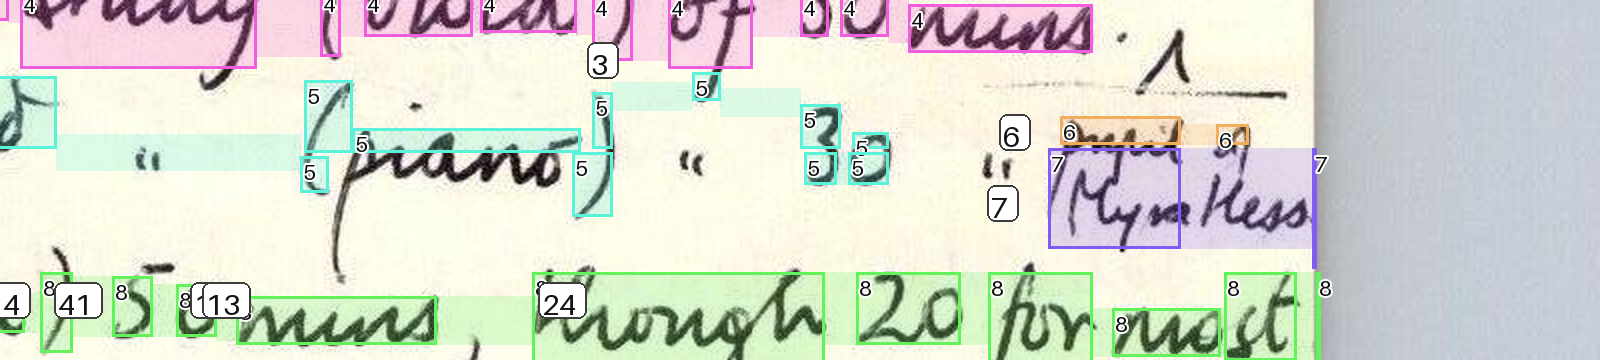
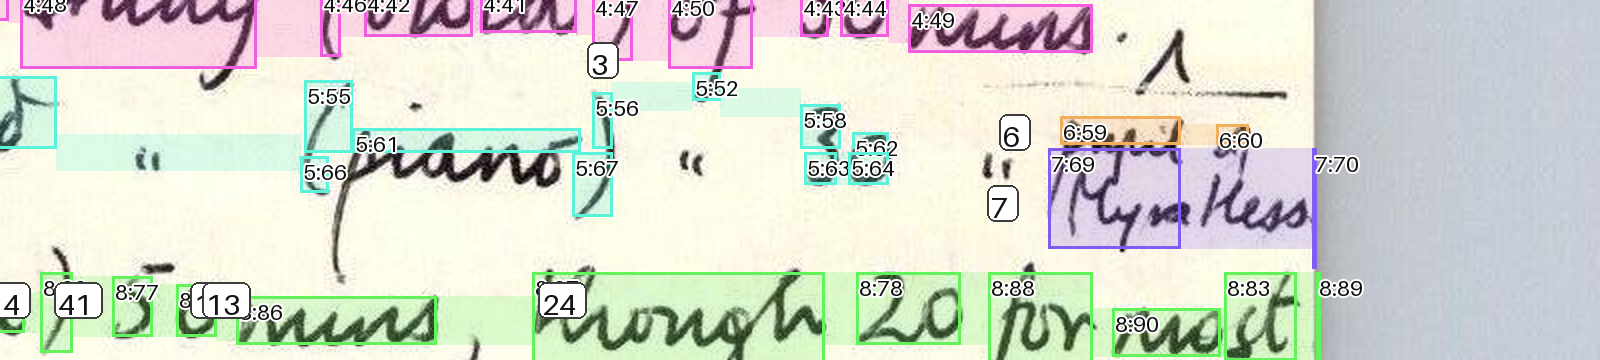
spike: diagnose boxes print line word numbers

diff --git a/research/spike-word-segmentation/diagnose_sites.py b/research/spike-word-segmentation/diagnose_sites.py
@@ -110,7 +110,7 @@ def _main() -> int:
                 draw.rectangle([bx0, by0, bx1, by1], outline=colour_of[name] + (255,), width=3)
                 draw.text(
                     (bx0 + 3, by0 + 2),
-                    name,
+                    f"{name}:{r}",
                     fill=(15, 15, 15),
                     stroke_width=2,
                     stroke_fill=(255, 255, 255),
